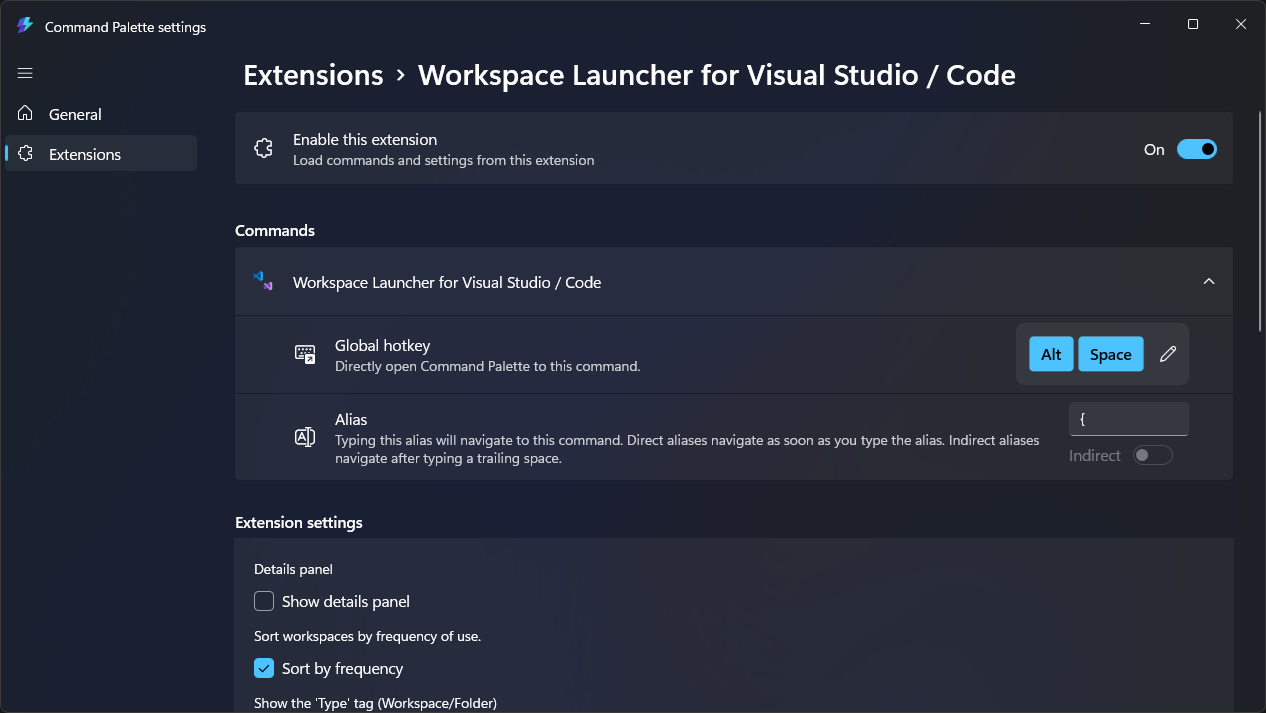
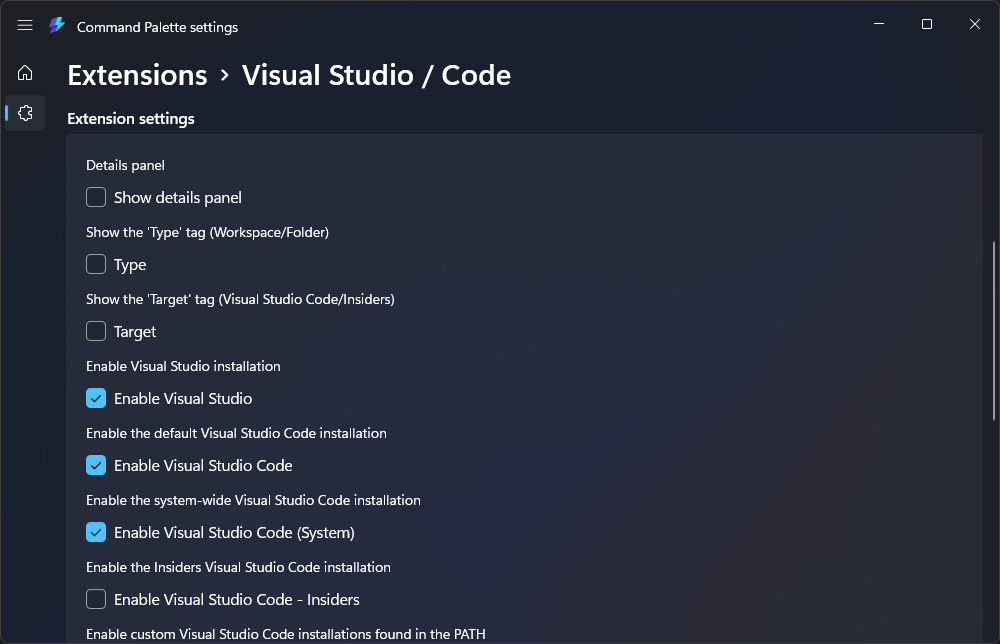
1.10.0.0

diff --git a/WorkspaceLauncherForVSCode/Services/VisualStudioCodeInstanceProvider.cs b/WorkspaceLauncherForVSCode/Services/VisualStudioCodeInstanceProvider.cs
@@ -1,9 +1,9 @@
 // Modifications copyright (c) 2025 tanchekwei 
 // Licensed under the MIT License. See the LICENSE file in the project root for details.
-
 using System;
 using System.Collections.Generic;
 using System.IO;
+using WorkspaceLauncherForVSCode.Classes;
 using WorkspaceLauncherForVSCode.Enums;
 
 namespace WorkspaceLauncherForVSCode.Services
@@ -12,6 +12,9 @@ namespace WorkspaceLauncherForVSCode.Services
     {
         public static List<VisualStudioCodeInstance> GetInstances(VisualStudioCodeEdition enabledEditions, string preferredEdition)
         {
+#if DEBUG
+            using var logger = new TimeLogger();
+#endif
             var instances = new List<VisualStudioCodeInstance>();
             LoadInstances(enabledEditions, instances);
             SortInstances(instances, preferredEdition);
@@ -20,6 +23,9 @@ namespace WorkspaceLauncherForVSCode.Services
 
         private static void LoadInstances(VisualStudioCodeEdition enabledEditions, List<VisualStudioCodeInstance> instances)
         {
+#if DEBUG
+            using var logger = new TimeLogger();
+#endif
             var appdataProgramFilesPath = Environment.GetFolderPath(Environment.SpecialFolder.LocalApplicationData);
             var programsFolderPathBase = Environment.GetFolderPath(Environment.SpecialFolder.ProgramFiles);
             var defaultStoragePath = Path.Combine(Environment.GetFolderPath(Environment.SpecialFolder.ApplicationData), "Code", "User", "globalStorage");

diff --git a/WorkspaceLauncherForVSCode/Services/VisualStudioProvider.cs b/WorkspaceLauncherForVSCode/Services/VisualStudioProvider.cs
@@ -1,10 +1,10 @@
 // Modifications copyright (c) 2025 tanchekwei 
 // Licensed under the MIT License. See the LICENSE file in the project root for details.
-
 using System;
 using System.Collections.Generic;
 using System.Linq;
 using System.Threading.Tasks;
+using WorkspaceLauncherForVSCode.Classes;
 using WorkspaceLauncherForVSCode.Enums;
 using WorkspaceLauncherForVSCode.Services.VisualStudio;
 
@@ -15,6 +15,9 @@ namespace WorkspaceLauncherForVSCode.Services
         public static Task<List<VisualStudioCodeWorkspace>> GetSolutions(
             List<VisualStudioCodeWorkspace> dbWorkspaces, bool showPrerelease)
         {
+#if DEBUG
+            using var logger = new TimeLogger();
+#endif
             var visualStudioService = new VisualStudioService();
             visualStudioService.InitInstances(Array.Empty<string>());
             var results = visualStudioService.GetResults(showPrerelease);

diff --git a/WorkspaceLauncherForVSCode/Pages/VisualStudioCodePage.cs b/WorkspaceLauncherForVSCode/Pages/VisualStudioCodePage.cs
@@ -1,6 +1,5 @@
 // Modifications copyright (c) 2025 tanchekwei
 // Licensed under the MIT License. See the LICENSE file in the project root for details.
-
 using System;
 using System.Collections.Generic;
 using System.Linq;
@@ -169,6 +168,9 @@ public sealed partial class VisualStudioCodePage : DynamicListPage, IDisposable
             // Skip if a refresh is already in progress
             return;
         }
+#if DEBUG
+        using var logger = new TimeLogger();
+#endif
 
         try
         {
@@ -284,6 +286,10 @@ public sealed partial class VisualStudioCodePage : DynamicListPage, IDisposable
 
     public async Task UpdateFrequencyAsync(string path)
     {
+#if DEBUG
+        using var logger = new TimeLogger();
+#endif
+
         await _workspaceStorage.UpdateWorkspaceFrequencyAsync(path);
 
         lock (_itemsLock)

diff --git a/WorkspaceLauncherForVSCode/Commands/PinWorkspaceCommand.cs b/WorkspaceLauncherForVSCode/Commands/PinWorkspaceCommand.cs
@@ -1,6 +1,5 @@
 // Modifications copyright (c) 2025 tanchekwei
 // Licensed under the MIT License. See the LICENSE file in the project root for details.
-
 using System.Threading.Tasks;
 using Microsoft.CommandPalette.Extensions.Toolkit;
 using WorkspaceLauncherForVSCode.Classes;
@@ -21,7 +20,7 @@ namespace WorkspaceLauncherForVSCode.Commands
         }
 
         public override string Name => _workspace.PinDateTime.HasValue ? "Unpin from List" : "Pin to List";
-        public override IconInfo Icon => _workspace.PinDateTime.HasValue ?  Classes.Icon.Unpinned : Classes.Icon.Pinned;
+        public override IconInfo Icon => _workspace.PinDateTime.HasValue ? Classes.Icon.Unpinned : Classes.Icon.Pinned;
 
         public override CommandResult Invoke()
         {

diff --git a/WorkspaceLauncherForVSCode/Services/VisualStudio/VisualStudioService.cs b/WorkspaceLauncherForVSCode/Services/VisualStudio/VisualStudioService.cs
@@ -7,6 +7,7 @@ using System.Diagnostics;
 using System.IO;
 using System.Linq;
 using System.Text.Json;
+using WorkspaceLauncherForVSCode.Classes;
 using WorkspaceLauncherForVSCode.Services.VisualStudio.Models.Json;
 
 using VsCodeModels = WorkspaceLauncherForVSCode.Services.VisualStudio.Models;
@@ -30,6 +31,9 @@ namespace WorkspaceLauncherForVSCode.Services.VisualStudio
 
         public void InitInstances(string[] excludedVersions)
         {
+#if DEBUG
+            using var logger = new TimeLogger();
+#endif
             var paths = new string?[] { null, VsWhereDir };
             var exceptions = new List<(string? Path, Exception Exception)>(paths.Length);
             _instances.Clear();

diff --git a/WorkspaceLauncherForVSCode/WorkspaceLauncherForVSCode.cs b/WorkspaceLauncherForVSCode/WorkspaceLauncherForVSCode.cs
@@ -1,10 +1,10 @@
 // Modifications copyright (c) 2025 tanchekwei 
 // Licensed under the MIT License. See the LICENSE file in the project root for details.
-
 using System;
 using System.Runtime.InteropServices;
 using System.Threading;
 using Microsoft.CommandPalette.Extensions;
+using WorkspaceLauncherForVSCode.Classes;
 
 namespace WorkspaceLauncherForVSCode;
 
@@ -26,6 +26,9 @@ public sealed partial class WorkspaceLauncherForVSCode : IExtension, IDisposable
 
     public object? GetProvider(ProviderType providerType)
     {
+#if DEBUG
+        using var logger = new TimeLogger();
+#endif
         return providerType switch
         {
             ProviderType.Commands => _provider,

diff --git a/WorkspaceLauncherForVSCode/WorkspaceLauncherForVSCodeCommandsProvider.cs b/WorkspaceLauncherForVSCode/WorkspaceLauncherForVSCodeCommandsProvider.cs
@@ -1,6 +1,5 @@
 // Modifications copyright (c) 2025 tanchekwei 
 // Licensed under the MIT License. See the LICENSE file in the project root for details.
-
 using Microsoft.CommandPalette.Extensions;
 using Microsoft.CommandPalette.Extensions.Toolkit;
 using WorkspaceLauncherForVSCode.Classes;
@@ -23,7 +22,7 @@ public partial class WorkspaceLauncherForVSCodeCommandsProvider : CommandProvide
 #endif
         _settingsManager = new SettingsManager();
         _vscodeService = new VisualStudioCodeService();
-        DisplayName = "Workspace Launcher for Visual Studio / Code";
+        DisplayName = "Visual Studio / Code";
 #if DEBUG
         DisplayName += " (Dev)";
 #endif

diff --git a/WorkspaceLauncherForVSCode/Workspaces/WorkspaceItemFactory.cs b/WorkspaceLauncherForVSCode/Workspaces/WorkspaceItemFactory.cs
@@ -1,6 +1,5 @@
 // Modifications copyright (c) 2025 tanchekwei
 // Licensed under the MIT License. See the LICENSE file in the project root for details.
-
 using System;
 using System.Collections.Generic;
 using Microsoft.CommandPalette.Extensions;
@@ -27,6 +26,9 @@ namespace WorkspaceLauncherForVSCode.Workspaces
             CommandContextItem refreshCommandContextItem,
             CommandContextItem openExtensionSettingsLogsCommandContextItem)
         {
+#if DEBUG
+            using var logger = new TimeLogger();
+#endif
             ICommand command;
             IconInfo icon;
             Details details;

diff --git a/WorkspaceLauncherForVSCode/Program.cs b/WorkspaceLauncherForVSCode/Program.cs
@@ -3,6 +3,7 @@ using System;
 using System.Resources;
 using System.Threading;
 using Microsoft.CommandPalette.Extensions;
+using WorkspaceLauncherForVSCode.Classes;
 
 [assembly: NeutralResourcesLanguage("en-US")]
 
@@ -13,6 +14,9 @@ public class Program
     [MTAThread]
     public static void Main(string[] args)
     {
+#if DEBUG
+        using var logger = new TimeLogger();
+#endif
         if (args.Length > 0 && args[0] == "-RegisterProcessAsComServer")
         {
             using ExtensionServer server = new();

diff --git a/WorkspaceLauncherForVSCode/Properties/Resource.Designer.cs b/WorkspaceLauncherForVSCode/Properties/Resource.Designer.cs
@@ -12,7 +12,7 @@ namespace WorkspaceLauncherForVSCode.Properties
 {
     using System;
 
-/// <summary>
+    /// <summary>
     ///   A strongly-typed resource class, for looking up localized strings, etc.
     /// </summary>
     // This class was auto-generated by the StronglyTypedResourceBuilder

diff --git a/WorkspaceLauncherForVSCode/Classes/VisualStudioCodeInstance.cs b/WorkspaceLauncherForVSCode/Classes/VisualStudioCodeInstance.cs
@@ -1,6 +1,5 @@
 // Modifications copyright (c) 2025 tanchekwei 
 // Licensed under the MIT License. See the LICENSE file in the project root for details.
-
 using System.Text.Json.Serialization;
 using Microsoft.CommandPalette.Extensions.Toolkit;
 using WorkspaceLauncherForVSCode.Enums;

diff --git a/WorkspaceLauncherForVSCode/Commands/OpenVisualStudioCodeCommand.cs b/WorkspaceLauncherForVSCode/Commands/OpenVisualStudioCodeCommand.cs
@@ -1,6 +1,5 @@
 // Modifications copyright (c) 2025 tanchekwei 
 // Licensed under the MIT License. See the LICENSE file in the project root for details.
-
 using System.Threading.Tasks;
 using Microsoft.CommandPalette.Extensions.Toolkit;
 using WorkspaceLauncherForVSCode.Commands;
